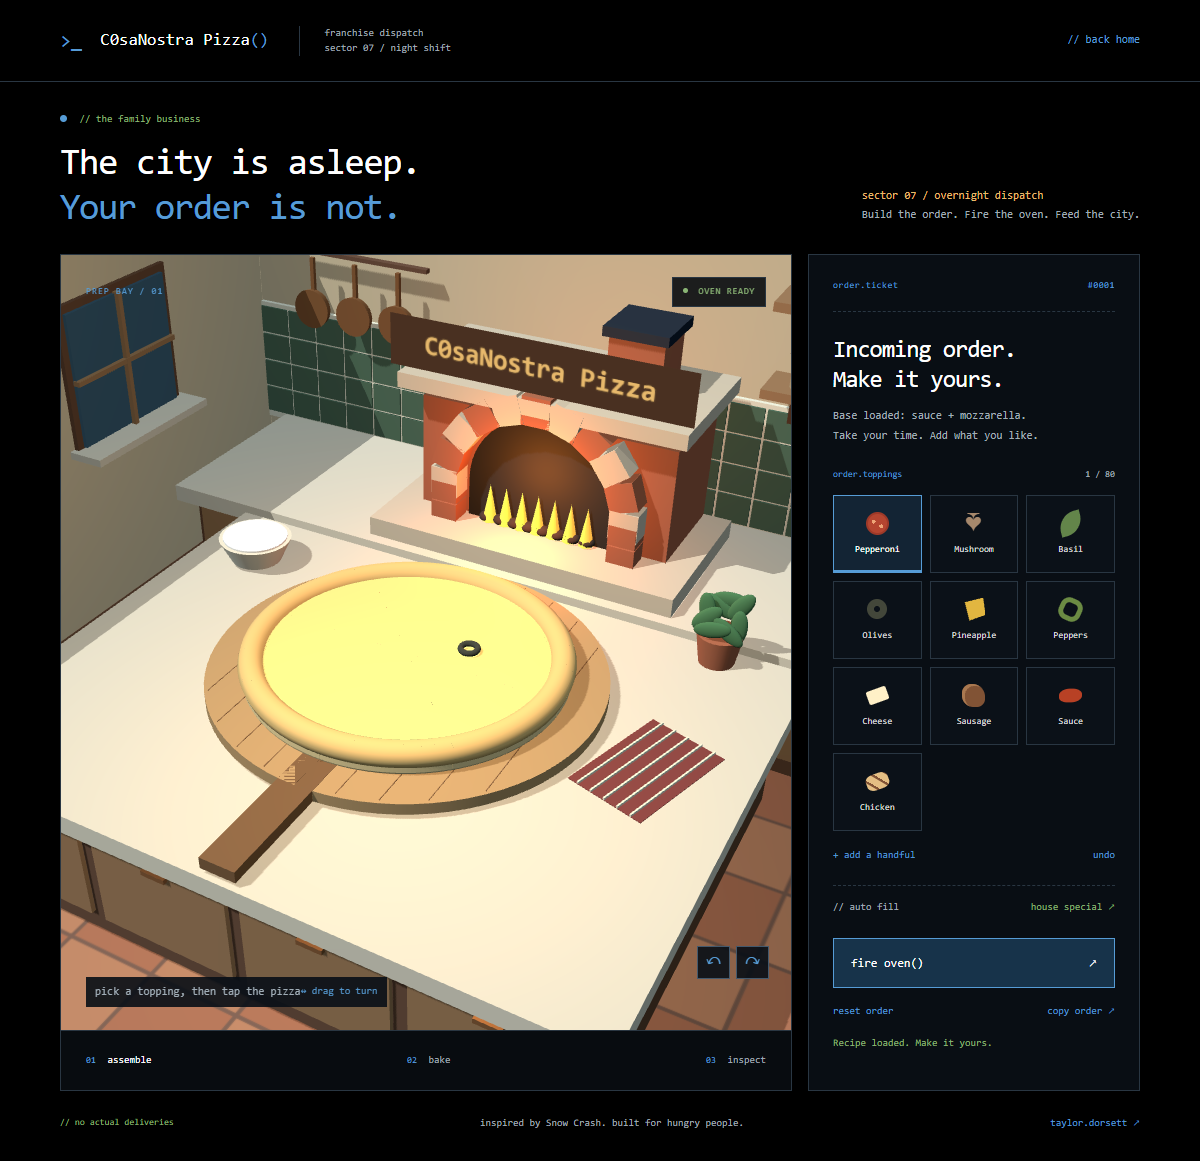
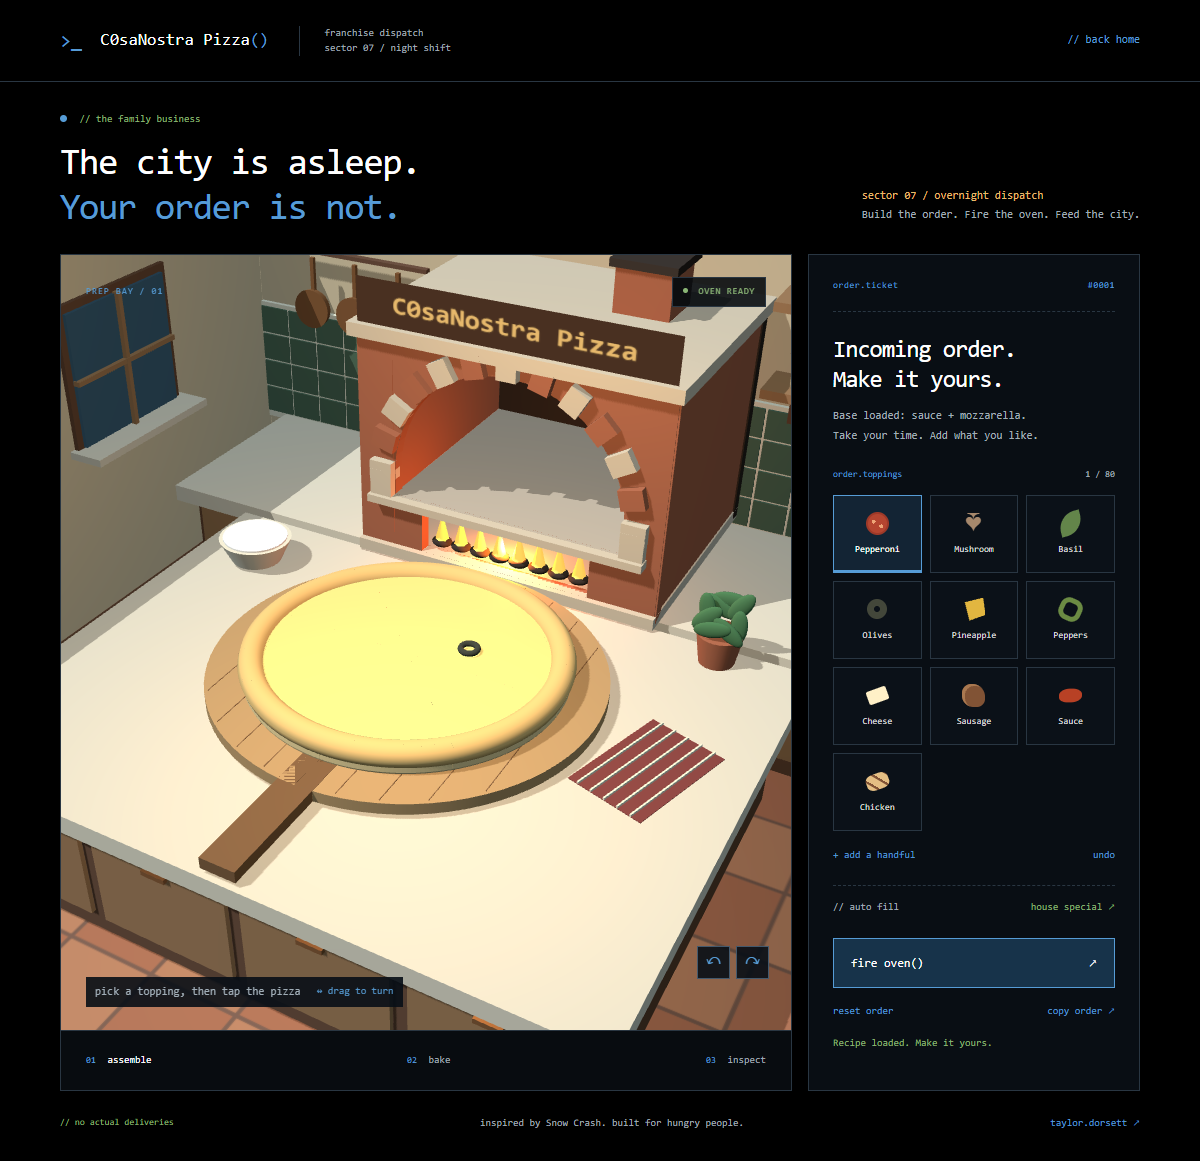
keep the pizza above the fire

Changed region(s): [[0.2775, 0.2171, 0.6783, 0.5581], [0.3083, 0.8372, 0.3392, 0.8682]]

diff --git a/kitchen.js b/kitchen.js
@@ -1,6 +1,8 @@
 import * as THREE from './vendor/three.module.js';
 import { createGeometry } from './geometry.js';
 import { createKitchenRoom } from './kitchen-room.js';
+import { createPizzaOven } from './pizza-oven.js';
+import { ovenLayout } from './oven-motion.js';
 export function createKitchen(scene) {
   const root = new THREE.Group();
   scene.add(root);
@@ -27,13 +29,8 @@ export function createKitchen(scene) {
     sausage: material('#815335'),
     chicken: material('#e4be83'),
     brick: material('#a85e3d'),
-    grout: material('#cfb997'),
-    oven: material('#17222d'),
-    black: material('#201f19'),
-    coal: material('#382a21'),
     char: material('#96603a'),
     cream: material('#e9d8b4'),
-    metal: material('#79796b', { metalness: 0.3 }),
     towel: material('#7d3730')
   };
   const rimLight = new THREE.PointLight('#569cd6', 35, 16, 2);
@@ -41,68 +38,7 @@ export function createKitchen(scene) {
   scene.add(rimLight);
   rimLight.visible = false;
 
-  // The brick oven is made from individual blocks around an arched opening.
-  const oven = new THREE.Group();
-  oven.position.set(0, 0, -4.5);
-  root.add(oven);
-  box(5, 0.3, 2.65, mats.grout, oven, 0, -0.1, 0);
-  box(4.1, 2, 1.7, mats.brick, oven, 0, 0.85, -0.45);
-  const arch = new THREE.Shape();
-  arch.moveTo(-1.2, 0);
-  arch.lineTo(1.2, 0);
-  arch.lineTo(1.2, 0.65);
-  arch.absarc(0, 0.65, 1.2, 0, Math.PI, false);
-  arch.lineTo(-1.2, 0);
-  const dark = mesh(new THREE.ShapeGeometry(arch), mats.black, oven);
-  dark.position.set(0, 0.03, 0.46);
-  for (let i = 0; i < 11; i++) {
-    const a = (i / 10) * Math.PI;
-    const b = box(
-      0.45,
-      0.45,
-      0.35,
-      i % 2 ? mats.brick : mats.grout,
-      oven,
-      Math.cos(a) * 1.47,
-      0.68 + Math.sin(a) * 1.47,
-      0.62
-    );
-    b.rotation.z = a;
-  }
-  for (const x of [-1.47, 1.47])
-    for (let j = 0; j < 2; j++) box(0.43, 0.32, 0.36, mats.brick, oven, x, 0.17 + j * 0.34, 0.62);
-  box(4.55, 0.24, 2.3, mats.grout, oven, 0, 2.2, -0.35);
-  box(0.85, 0.85, 0.8, mats.brick, oven, 1.05, 2.7, -0.65);
-  box(1, 0.15, 1, mats.oven, oven, 1.05, 3.16, -0.65);
-  const signCanvas = document.createElement('canvas');
-  signCanvas.width = 768;
-  signCanvas.height = 128;
-  const signContext = signCanvas.getContext('2d');
-  signContext.fillStyle = '#493021';
-  signContext.fillRect(0, 0, 768, 128);
-  signContext.fillStyle = '#e8b96c';
-  signContext.font = 'bold 66px monospace';
-  signContext.textAlign = 'center';
-  signContext.fillText('C0saNostra Pizza', 384, 85);
-  const signTexture = new THREE.CanvasTexture(signCanvas);
-  signTexture.colorSpace = THREE.SRGBColorSpace;
-  const shopSign = mesh(
-    new THREE.PlaneGeometry(4.7, 0.78),
-    new THREE.MeshBasicMaterial({ map: signTexture }),
-    oven
-  );
-  shopSign.position.set(0, 2.85, 0.85);
-  for (let i = 0; i < 8; i++) ball(-0.85 + i * 0.24, 0.12, 0.51, 0.13, 0.08, 0.12, mats.coal, oven);
-  const flames = [];
-  for (let i = 0; i < 7; i++) {
-    const m = mesh(
-      new THREE.ConeGeometry(0.12, 0.62, 7),
-      material('#ffb84a', { emissive: '#ff7221', emissiveIntensity: 2 }),
-      oven
-    );
-    m.position.set(-0.8 + i * 0.27, 0.38, 0.52);
-    flames.push(m);
-  }
+  const { flames } = createPizzaOven(root);
   // Flour bowl, basil pot and a folded tea towel.
   const bowl = mesh(new THREE.CylinderGeometry(0.55, 0.38, 0.36, 32), mats.cream);
   bowl.position.set(-3.6, -0.03, -1.65);
@@ -133,7 +69,11 @@ export function createKitchen(scene) {
 
   const carriage = new THREE.Group();
   root.add(carriage);
-  const peel = mesh(new THREE.CylinderGeometry(2.65, 2.65, 0.16, 80), mats.wood, carriage);
+  const peel = mesh(
+    new THREE.CylinderGeometry(ovenLayout.peelRadius, ovenLayout.peelRadius, 0.16, 80),
+    mats.wood,
+    carriage
+  );
   peel.position.y = -0.1;
   box(0.48, 0.16, 2.1, mats.edge, carriage, 0, -0.1, 3.1);
   for (let i = 0; i < 9; i++) {

diff --git a/pizza-oven.js b/pizza-oven.js
@@ -1,0 +1,100 @@
+import * as THREE from './vendor/three.module.js';
+import { createGeometry } from './geometry.js';
+import { ovenLayout } from './oven-motion.js';
+
+export function createPizzaOven(parent) {
+  const oven = new THREE.Group();
+  oven.position.z = ovenLayout.centerZ;
+  parent.add(oven);
+  const { mesh, box, ball } = createGeometry(oven);
+  const material = (color) => new THREE.MeshStandardMaterial({ color, roughness: 0.85 });
+  const brick = material('#a85e3d'),
+    mortar = material('#cfb997'),
+    soot = material('#30251c');
+  const stone = material('#b9a58a'),
+    coal = material('#382a21');
+
+  // Separate walls leave an actual hollow chamber behind the front opening.
+  box(0.55, 3.4, 3.6, brick, oven, -2.1, 1.5, -0.1);
+  box(0.55, 3.4, 3.6, brick, oven, 2.1, 1.5, -0.1);
+  box(4.8, 3.4, 0.2, soot, oven, 0, 1.5, -1.9);
+  box(4.95, 0.2, 3.9, mortar, oven, 0, 3.3, -0.1);
+  box(4.8, 0.18, 3.8, mortar, oven, 0, -0.14, -0.1);
+
+  const face = new THREE.Shape();
+  face.moveTo(-2.4, -0.2);
+  face.lineTo(2.4, -0.2);
+  face.lineTo(2.4, 3.2);
+  face.lineTo(-2.4, 3.2);
+  face.closePath();
+  const opening = new THREE.Path();
+  opening.moveTo(-1.8, 0.81);
+  opening.lineTo(1.8, 0.81);
+  opening.lineTo(1.8, 1.2);
+  opening.absarc(0, 1.2, ovenLayout.openingHalfWidth, 0, Math.PI, false);
+  opening.lineTo(-1.8, 0.81);
+  const firebox = new THREE.Path();
+  firebox.moveTo(-1.35, -0.05);
+  firebox.lineTo(1.35, -0.05);
+  firebox.lineTo(1.35, 0.65);
+  firebox.lineTo(-1.35, 0.65);
+  firebox.closePath();
+  face.holes.push(opening, firebox);
+  const facade = mesh(new THREE.ExtrudeGeometry(face, { depth: 0.2, bevelEnabled: false }), brick);
+  facade.position.z = 1.5;
+
+  for (let i = 0; i < 13; i++) {
+    const angle = (i / 12) * Math.PI;
+    const archBrick = box(
+      0.36,
+      0.3,
+      0.27,
+      i % 2 ? brick : mortar,
+      oven,
+      Math.cos(angle) * 1.98,
+      1.2 + Math.sin(angle) * 1.98,
+      1.7
+    );
+    archBrick.rotation.z = angle;
+  }
+  for (const x of [-1.98, 1.98]) box(0.35, 0.42, 0.27, mortar, oven, x, 1, 1.7);
+  box(4.1, 0.16, 3.7, stone, oven, 0, ovenLayout.deckTop - 0.08, -0.1);
+  box(4.35, 0.12, 0.35, mortar, oven, 0, ovenLayout.deckTop - 0.06, 1.73);
+
+  // Fire stays in its own lower chamber, below the continuous baking stone.
+  const flames = [];
+  const flameGeometry = new THREE.ConeGeometry(0.11, 0.44, 7);
+  const flameMaterial = new THREE.MeshStandardMaterial({
+    color: '#ffc268',
+    emissive: '#ff7c24',
+    emissiveIntensity: 2
+  });
+  for (let i = 0; i < 8; i++) {
+    const x = -1.12 + i * 0.32;
+    ball(x, 0.08, 1.48, 0.16, 0.08, 0.13, coal, oven);
+    const flame = mesh(flameGeometry, flameMaterial);
+    flame.position.set(x, ovenLayout.flameTop - 0.22, 1.48);
+    flames.push(flame);
+  }
+  box(0.85, 0.7, 0.85, brick, oven, 1.05, 3.75, -0.7);
+  box(1, 0.12, 1, soot, oven, 1.05, 4.13, -0.7);
+
+  const canvas = document.createElement('canvas');
+  canvas.width = 768;
+  canvas.height = 128;
+  const ctx = canvas.getContext('2d');
+  ctx.fillStyle = '#493021';
+  ctx.fillRect(0, 0, 768, 128);
+  ctx.fillStyle = '#e8b96c';
+  ctx.font = 'bold 66px monospace';
+  ctx.textAlign = 'center';
+  ctx.fillText('C0saNostra Pizza', 384, 85);
+  const texture = new THREE.CanvasTexture(canvas);
+  texture.colorSpace = THREE.SRGBColorSpace;
+  const sign = mesh(
+    new THREE.PlaneGeometry(4.7, 0.65),
+    new THREE.MeshBasicMaterial({ map: texture })
+  );
+  sign.position.set(0, 3.72, 1.75);
+  return { flames };
+}

diff --git a/browser-check.js b/browser-check.js
@@ -201,6 +201,29 @@ try {
   );
   await ingredientsPage.close();
 
+  for (const [name, width, height] of [
+    ['desktop', 1440, 1300],
+    ['mobile', 390, 1700]
+  ]) {
+    const ovenPage = await checkedPage({ viewport: { width, height }, reducedMotion: 'reduce' });
+    await ovenPage.clock.install({ time: new Date('2026-01-01T00:00:00Z') });
+    await ovenPage.clock.pauseAt(new Date('2026-01-01T00:00:01Z'));
+    await ovenPage.goto(baseUrl);
+    await ovenPage.locator('#special').click();
+    await ovenPage.locator('#primary').click();
+    await ovenPage.clock.fastForward(750);
+    await ovenPage.screenshot({ path: `screenshots/oven-${name}-lift.png` });
+    await ovenPage.clock.fastForward(3250);
+    assert.equal(await ovenPage.locator('body').getAttribute('data-mode'), 'baking');
+    await ovenPage.screenshot({ path: `screenshots/oven-${name}-baking.png` });
+    await ovenPage.clock.fastForward(2700);
+    await ovenPage.screenshot({ path: `screenshots/oven-${name}-out.png` });
+    await ovenPage.clock.fastForward(1400);
+    assert.equal(await ovenPage.locator('body').getAttribute('data-mode'), 'baked');
+    await ovenPage.screenshot({ path: `screenshots/oven-${name}-done.png` });
+    await ovenPage.close();
+  }
+
   // A recipe opened mid order must render exactly like a fresh recipe.
   // Comparing the canvas catches stale rotation, slice offsets and oven scale.
   const recipePage = await checkedPage({

diff --git a/oven-motion.test.js b/oven-motion.test.js
@@ -1,0 +1,23 @@
+import test from 'node:test';
+import assert from 'node:assert/strict';
+import { bakingPose, ovenLayout } from './oven-motion.js';
+
+test('the peel clears the fire and stone throughout entry and exit', () => {
+  for (let i = 0; i <= 1000; i++) {
+    const pose = bakingPose(i / 1000);
+    const radius = ovenLayout.peelRadius * pose.scale;
+    if (pose.z - radius < ovenLayout.mouthZ) {
+      const bottom = pose.y + ovenLayout.peelBottom * pose.scale;
+      assert.ok(bottom >= ovenLayout.deckTop, 'lift before crossing the oven mouth');
+      assert.ok(bottom > ovenLayout.flameTop, 'keep the fire below the pizza');
+      assert.ok(radius < ovenLayout.openingHalfWidth, 'fit through the opening');
+    }
+  }
+});
+
+test('baking rests inside the oven and returns to the same counter position', () => {
+  assert.deepEqual(bakingPose(0), { y: 0, z: 0, scale: 1 });
+  assert.deepEqual(bakingPose(1), { y: 0, z: 0, scale: 1 });
+  assert.equal(bakingPose(0.5).z, ovenLayout.centerZ);
+  assert.equal(bakingPose(0.5).y, ovenLayout.bakingHeight);
+});

diff --git a/order.js b/order.js
@@ -1,3 +1,4 @@
+import { bakingPose } from './oven-motion.js';
 import { createCourier } from './courier.js';
 import { maxToppings, decodeRecipe, randomSpot } from './recipe.js';
 import { updateOrderView, updateCourierPhase, say } from './order-view.js';
@@ -235,11 +236,9 @@ export function startOrder({
     if (mode === 'baking') {
       const t = Math.min((now - bakingStarted) / 1000 / bakeSeconds, 1);
       $('progress').value = t;
-      const travel = t < 0.16 ? t / 0.16 : t > 0.82 ? (1 - t) / 0.18 : 1;
-      const ease = travel * travel * (3 - 2 * travel);
-      carriage.position.z = -2.8 * ease;
-      carriage.position.y = 0.02 * ease;
-      carriage.scale.setScalar(1 - 0.28 * ease);
+      const pose = bakingPose(t);
+      carriage.position.set(0, pose.y, pose.z);
+      carriage.scale.setScalar(pose.scale);
       setCooked(Math.min(t * 1.3, 1));
       fireLight.intensity = 18;
       if (t === 1) {

diff --git a/oven-motion.js b/oven-motion.js
@@ -1,0 +1,29 @@
+// These dimensions are shared by the oven model and its animation so the peel
+// clears the opening and rests above the stone instead of passing through fire.
+export const ovenLayout = {
+  centerZ: -4.5,
+  mouthZ: -2.8,
+  openingHalfWidth: 1.8,
+  deckTop: 0.81,
+  flameTop: 0.57,
+  peelRadius: 2.65,
+  peelBottom: -0.18,
+  bakingHeight: 0.93,
+  bakingScale: 0.62
+};
+
+const smooth = (value) => {
+  const t = Math.max(0, Math.min(1, value));
+  return t * t * (3 - 2 * t);
+};
+
+export function bakingPose(progress) {
+  const lift = progress < 0.88 ? smooth(progress / 0.12) : 1 - smooth((progress - 0.88) / 0.12);
+  const slide =
+    progress < 0.76 ? smooth((progress - 0.12) / 0.15) : 1 - smooth((progress - 0.76) / 0.12);
+  return {
+    y: ovenLayout.bakingHeight * lift,
+    z: slide === 0 ? 0 : ovenLayout.centerZ * slide,
+    scale: 1 - (1 - ovenLayout.bakingScale) * lift
+  };
+}

diff --git a/scene.js b/scene.js
@@ -33,7 +33,7 @@ export function createScene(host) {
   sun.shadow.normalBias = 0.025;
   scene.add(sun);
   const fireLight = new THREE.PointLight('#ff8c31', 13, 7, 2);
-  fireLight.position.set(0, 1, -3.2);
+  fireLight.position.set(0, 0.3, -3);
   scene.add(fireLight);
 
   let deliveringNow = false;

diff --git a/build.js b/build.js
@@ -12,6 +12,8 @@ for (const file of [
   'geometry.js',
   'kitchen.js',
   'kitchen-room.js',
+  'pizza-oven.js',
+  'oven-motion.js',
   'order.js',
   'order-view.js',
   'pizza-input.js',

diff --git a/dispatch.css b/dispatch.css
@@ -92,6 +92,7 @@ h2 {
   background: #080e16e6;
   padding: 7px 9px;
   width: fit-content;
+  gap: 16px;
 }
 .drag-hint {
   color: var(--red);

diff --git a/README.md b/README.md
@@ -70,6 +70,8 @@ the normal order path is `prep → baking → baked → pickup → dispatched`. 
 
 opening a recipe replaces the current order and resets its rotation, slice and oven position. a broken link leaves the current order alone. browser checks compare the resulting pizza with a fresh recipe after interrupting baking, inspection and pickup.
 
+the oven has a separate firebox below its stone deck. the peel lifts before entering, stays above the fire, then comes back out before lowering onto the counter. `oven-motion.js` shares its dimensions with `pizza-oven.js`. clearance checks cover the whole entry and exit path.
+
 the order controller owns state. scene files own geometry. the view reads state and updates the page. keep those boundaries when adding things.
 
 toppings share their geometry and materials for the life of the page. clearing a topping removes its meshes without disposing shared resources. a new topping type should reuse resources too. the browser test counts gpu buffers across repeated orders to catch leaks.
